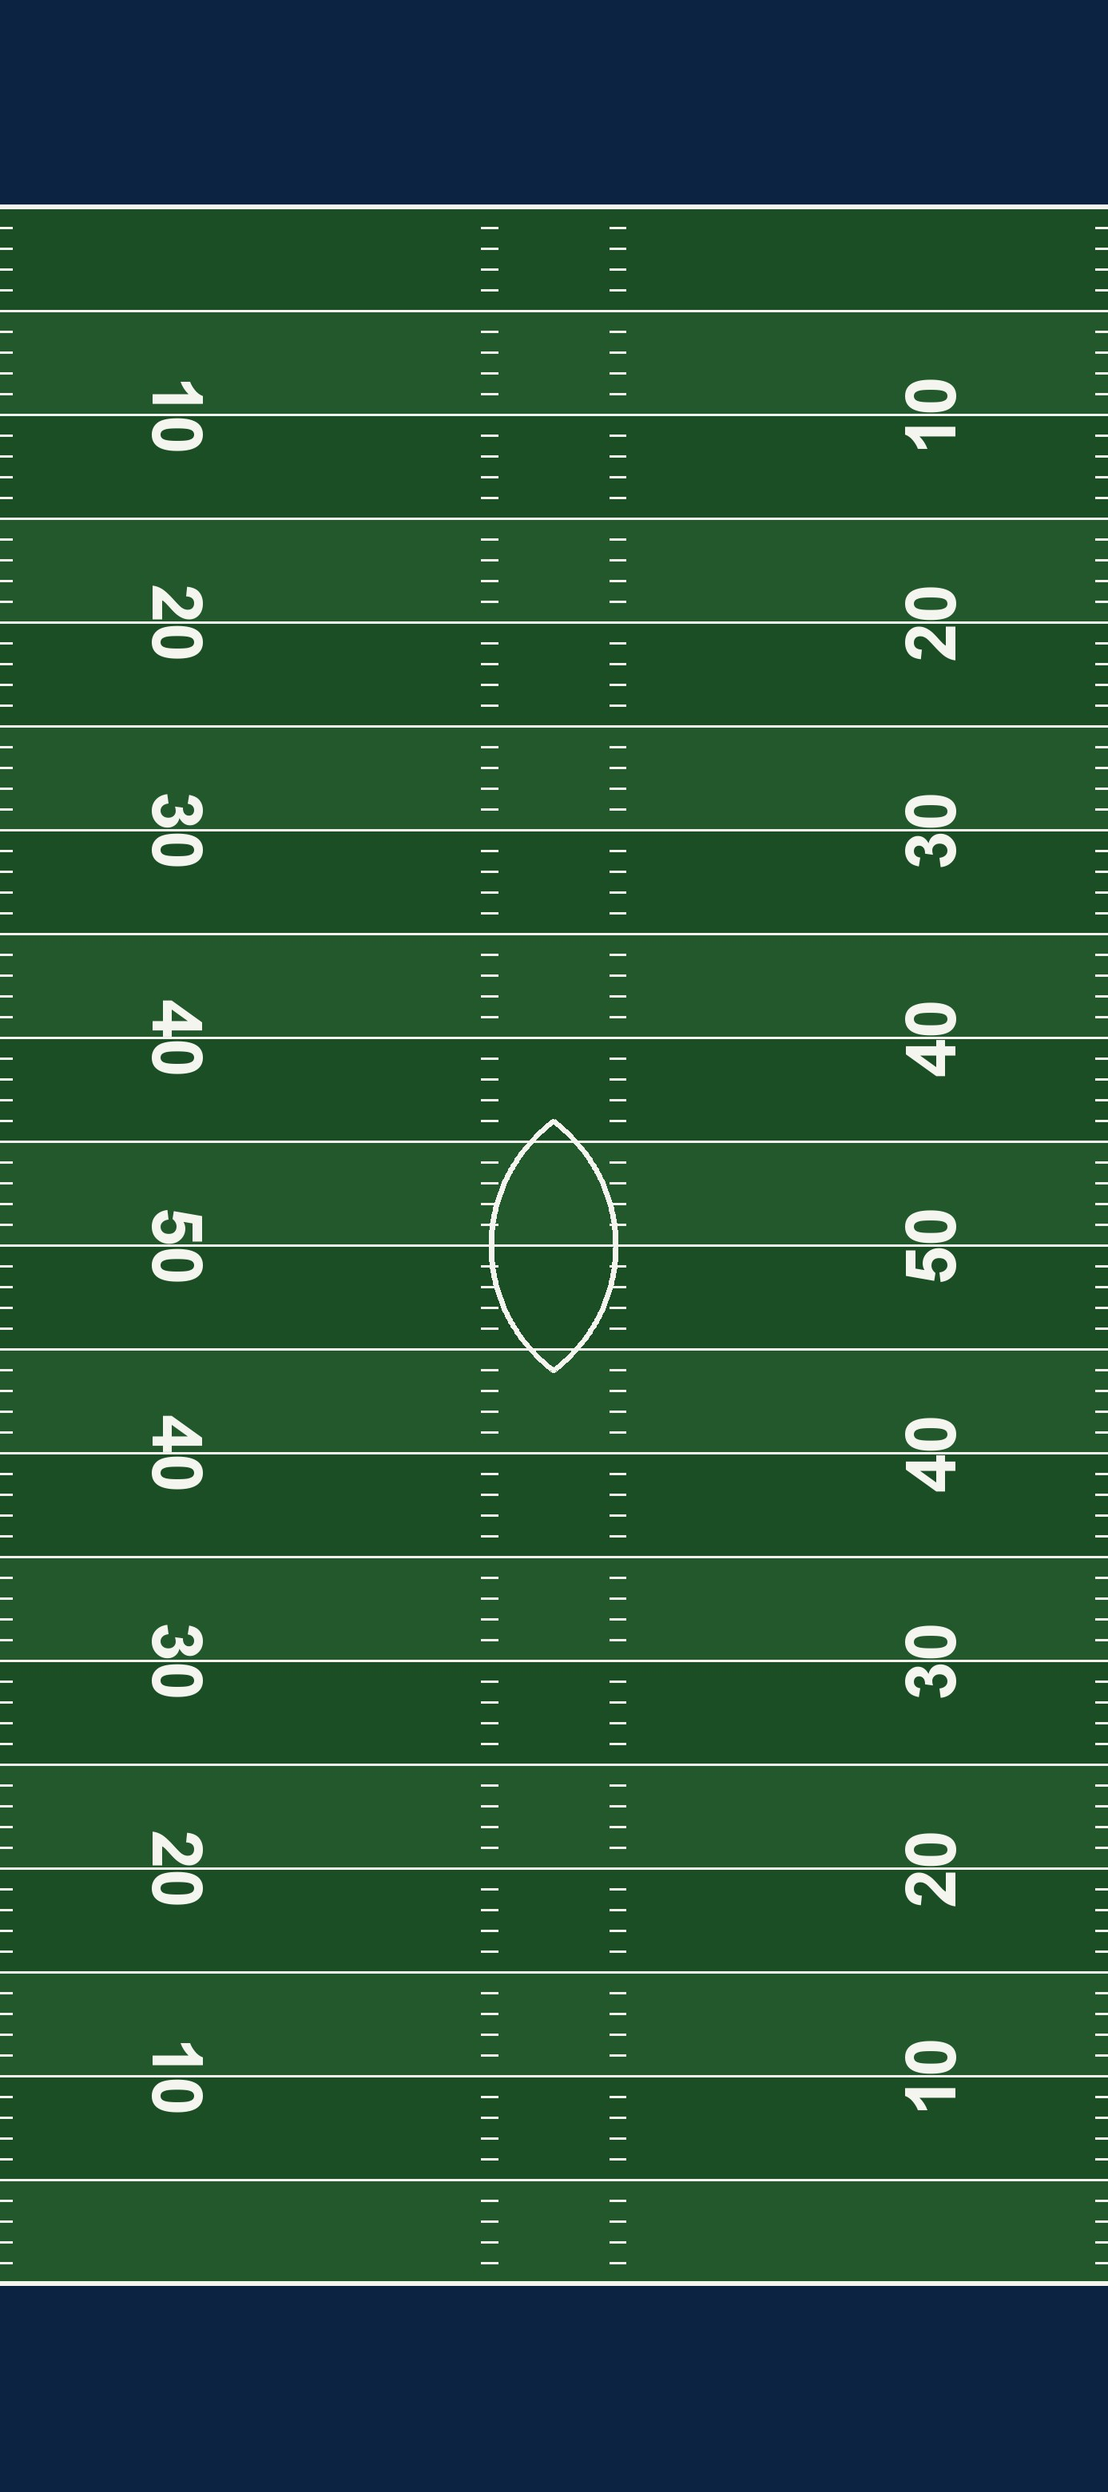
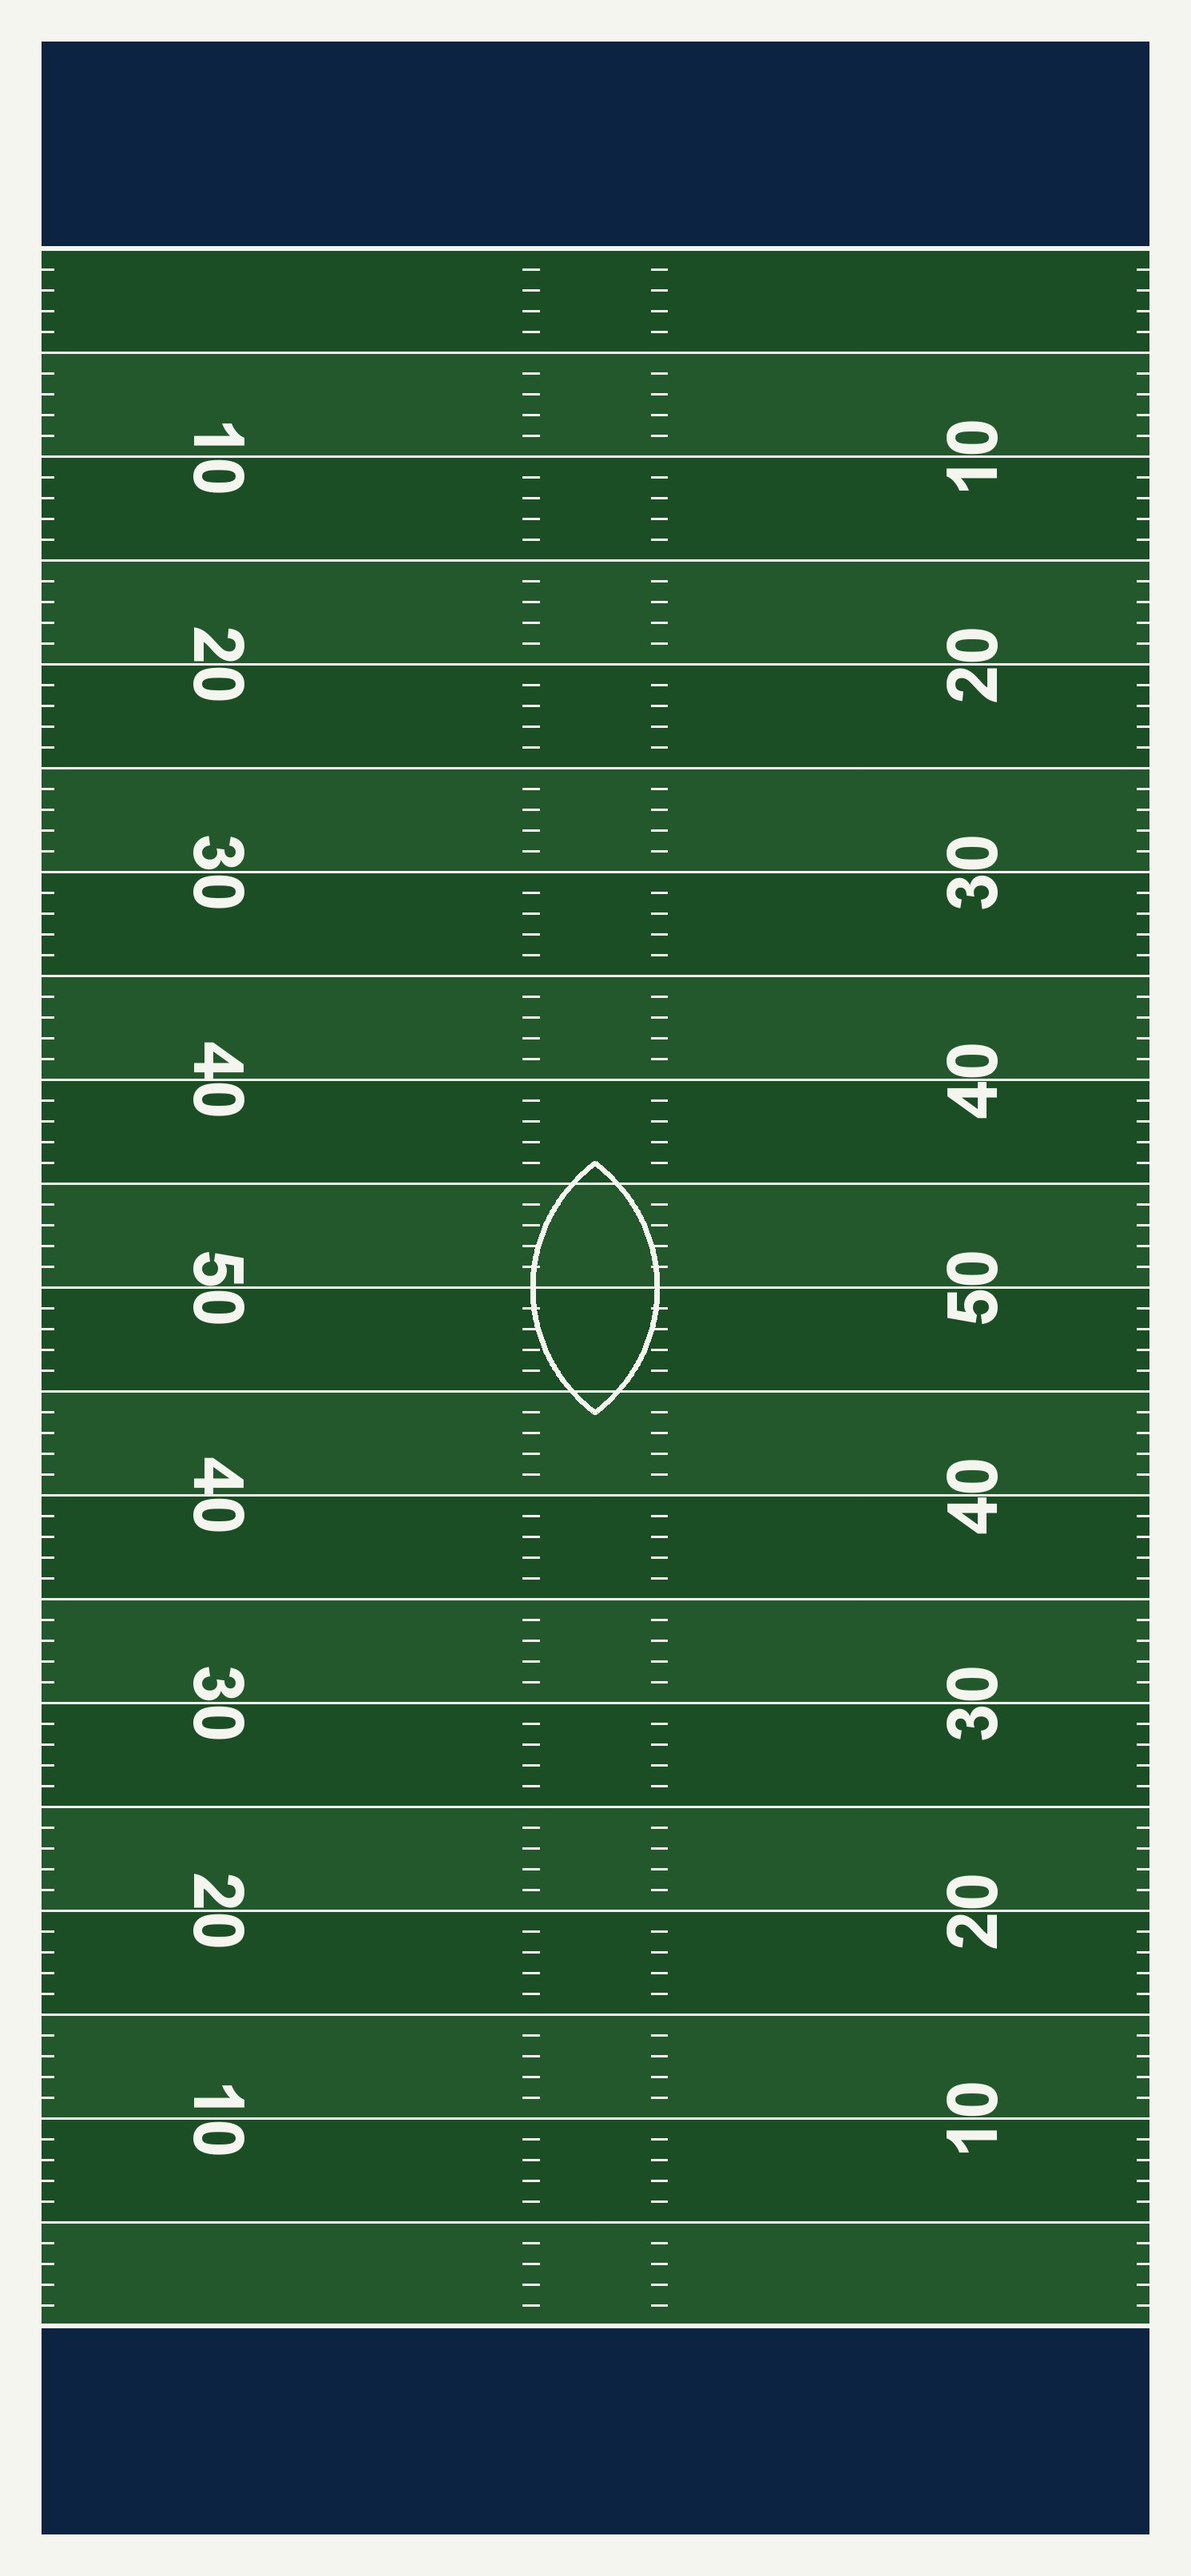
Give the gridiron its out-of-bounds border
The painted field ran to the sidelines and end lines and stopped, so the
turf met the concrete with nothing between them. A real field carries a
solid white border outside the lines, and the rules put it at a minimum of
six feet, which is where this is drawn - two yards exactly, so it lands on
the same grid as every other marking and the texture stays a whole number
of yards each way. Widen it by changing APRON_YD; that is the only number
involved.

The apron is part of the picture and not part of the field, and keeping
those apart is the whole of the work. app.js now gives the gridiron the
same split the pitch already had - `width`/`depth` is what is painted,
`play` is what is marked inside it - and play.js was already reading
`painted.play ?? painted` for everything that measures itself against the
surface, so tracking, goalposts and the diagram all still land on their own
markings. Sizing to the painted figure instead would have stood all 22
players two yards wide of their lines and put the uprights in the crowd.

Checked rather than assumed: the ball reads 4.991, 17.259, 5.71 at five
seconds and 9.892, -54.74, 1.05 at twelve, on both sides of the change,
with halfWidth 24.384 and depth 109.728 unmoved.

The seat plan takes the marked field too. It draws yard lines across
whatever rectangle it is handed, and handed the painted one it would have
spread all of them two yards wide of where they belong.

diff --git a/js/app.js b/js/app.js
@@ -389,7 +389,19 @@ const CONFIG = {
       // it stretched every yard to 0.945 m, so the field measured 103.3 yd
       // between the goal lines. The slab is 130 x 76.6 m and still holds this
       // comfortably - there is simply a little more of it showing round the edge.
-      gridiron: { width: 48.768, depth: 109.728, texture: "./assets/field.jpg" },
+      // `width`/`depth` are the painted slab, `play` the marked field inside
+      // it - the same split the pitch uses below, and for the same reason. The
+      // white out-of-bounds apron is 6 ft on every side, which the rules give
+      // as the minimum and which is two yards exactly, so the painted size is
+      // the marked one plus 3.6576 m in each direction.
+      //
+      // Everything that measures itself against the surface reads `play`.
+      // Sizing to the painted figure instead would stand every player two
+      // yards off their own markings and put the goalposts in the crowd.
+      gridiron: {
+        width: 52.4256, depth: 113.3856, texture: "./assets/field.jpg",
+        play: { width: 48.768, depth: 109.728 }
+      },
       // A full-size pitch at the top of the permitted range, with an apron of
       // grass around it as a real ground has.
       //

diff --git a/js/seats.js b/js/seats.js
@@ -267,7 +267,11 @@ export function sectionCamera(cfg, section, surfaceZ) {
  * which way is up.
  */
 export function sectionPlan(cfg) {
-  const surface = cfg.field.surfaces.gridiron;
+  // The marked field, not the painted slab: the plan draws yard lines across
+  // whatever rectangle it is given, and drawing them across the out-of-bounds
+  // apron as well would put every one of them in the wrong place.
+  const gridiron = cfg.field.surfaces.gridiron;
+  const surface = gridiron.play ?? gridiron;
   const blocks = RINGS.flatMap((ring) => {
     return ring.at.map((deg, i) => {
       const local = deg * DEG;

diff --git a/tools/make_field.py b/tools/make_field.py
@@ -5,6 +5,17 @@ sideline, yard numbers on both sidelines with the far row inverted as on a real
 field, and plain dark-blue end zones. No club name, no badge, no sponsor - the
 surface is meant to read as a venue rather than as one team's home.
 
+The field of play carries a solid white border outside the sidelines and end
+lines - the out-of-bounds apron - which the rules put at a minimum of six feet
+and which is drawn here at exactly that. Six feet is two yards, so it lands on
+the same grid as everything else and the texture stays a whole number of yards
+either way.
+
+The apron is part of the picture but not part of the field: the app is told the
+painted size and the marked size separately, and everything that measures itself
+against the surface uses the marked one. Get that wrong and every player stands
+two yards off their own markings.
+
 Edit and re-run; it writes field.jpg (portrait, ready for the app) next to
 itself.
 """
@@ -20,6 +31,8 @@ def out_path(*parts):
     return dst
 
 YD = 26                                   # pixels per yard
+# Six feet, which is the rulebook minimum and two yards exactly.
+APRON_YD = 2
 W, H = 120*YD, int(round(53.333*YD))
 TURF_A, TURF_B = (34,88,44), (28,78,38)
 # A deep navy for the end zones: dark enough to separate cleanly from the
@@ -85,12 +98,21 @@ def arc(sign):
 top, bot = arc(1), arc(-1)
 d.line(top + bot[::-1] + [top[0]], fill=WHITE, width=sw, joint="curve")
 
+# The apron goes on last, so every measurement above is in field coordinates
+# and none of it has to know the border exists.
+pad = APRON_YD*YD
+apron = Image.new("RGB", (W + 2*pad, H + 2*pad), WHITE)
+apron.paste(img, (pad, pad))
+
 here = os.path.dirname(os.path.abspath(__file__))
-img.save(os.path.join(here,"field_landscape.jpg"), quality=88, optimize=True)
-rot = img.rotate(90, expand=True)
+apron.save(os.path.join(here,"field_landscape.jpg"), quality=88, optimize=True)
+rot = apron.rotate(90, expand=True)
 dst = out_path("assets", "field.jpg")
 rot.save(dst, quality=88, optimize=True)
 print("  field.jpg %dx%d  %.0f KB"%(rot.size[0],rot.size[1],
       os.path.getsize(dst)/1024))
+print("  painted %.3f x %.3f m, marked %.3f x %.3f m"
+      % ((120 + 2*APRON_YD)*0.9144, (53.333 + 2*APRON_YD)*0.9144,
+         120*0.9144, 53.333*0.9144))
 img.crop((cx-int(a*2.0),cy-int(b*2.4),cx+int(a*2.0),cy+int(b*2.4))).resize(
     (760,int(760*(b*4.8)/(a*4.0))), Image.LANCZOS).save(os.path.join(here,"midfield_preview.png"))
